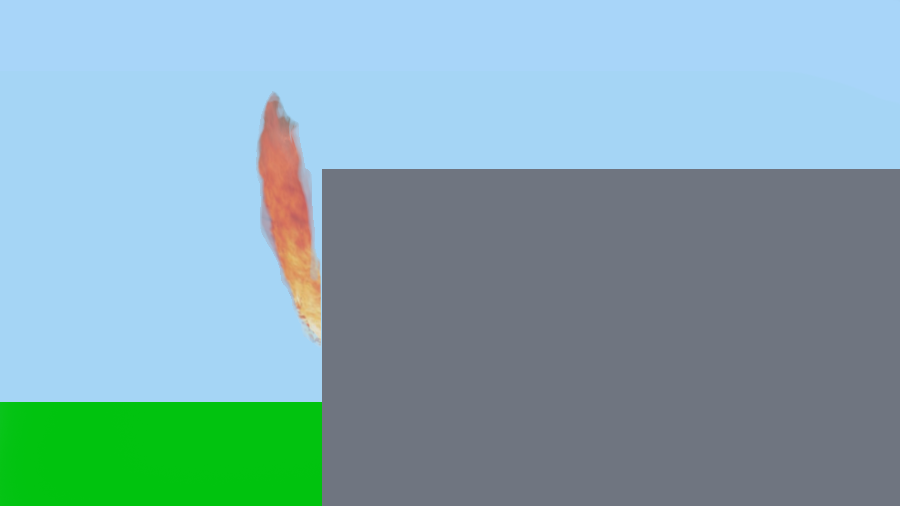
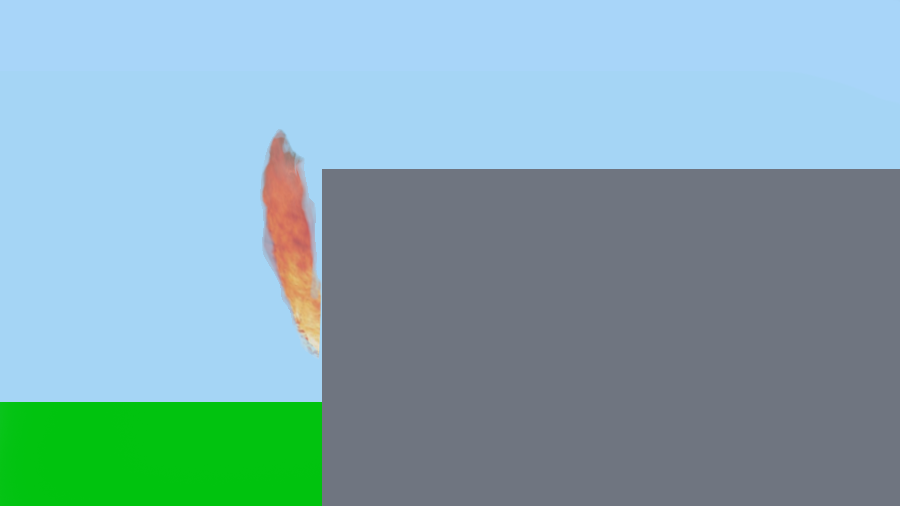
Shortened flame from window

diff --git a/FlameLength.html b/FlameLength.html
@@ -53,7 +53,7 @@
 	
 <p>The best structural firefighters know a few things about flame length.</p>	
 	
-<p>At building fires, flame length is a clue about how much  
+<p>At building fires, flame length is one of several clues about how much  
 		<span class = "tooltip"><strong>airborne fuel</strong><span class="tooltipcontent"><span class="tooltiptext" ><a href="#AFdef">Airborne fuels</a> include pyrolysis gases, partially burned fuels, vapors from liquids, and normally gaseous fuels.</span></span></span> 
 	 (AF) is in a fire atmosphere.&nbsp; Simply stated, more fuel makes a flame stretch until it finds more air to burn the fuel.
 </p>
@@ -65,7 +65,7 @@
 		<figcaption>&nbsp;&nbsp;&nbsp;&nbsp;&nbsp;&nbsp;&nbsp;&nbsp;&nbsp;&nbsp;&nbsp;&nbsp;&nbsp;&nbsp;&nbsp;&nbsp;Fig.1&nbsp;  Flame length</figcaption>
 		</figure></p>	
 
-<p>We notice a flame's size when it blows out a window or through a roof hole, but sometimes it's extending across a ceiling or the underside of a roof deck.&nbsp; The length of these sideways flames can be critical to the course of the incident.&nbsp; It may be how far the fire can reach to hurt someone.&nbsp; It may be how fast the fire can spread.&nbsp; It may also be the reason that knockdown is not happening.</p>
+<p>We notice a flame's size when it blows out a window or through a roof hole, but sometimes it's extending across a ceiling or the underside of a roof deck.&nbsp; The length of these sideways flames can be critical to the course of the incident:&nbsp; it may be how far the fire can reach to hurt someone;&nbsp; it may be how fast the fire can spread;&nbsp; it may also be the reason that knockdown is not happening.</p>
 	
 <p>
 		<span class = "tooltip">Stable or semi-stable<span class="tooltipcontent"><span class="tooltipimage">See <a href="index.html">Room Fires etc</a><img src="images/F2.gif" width="382" height="206" alt="Stability animation"/></span></span></span> 
